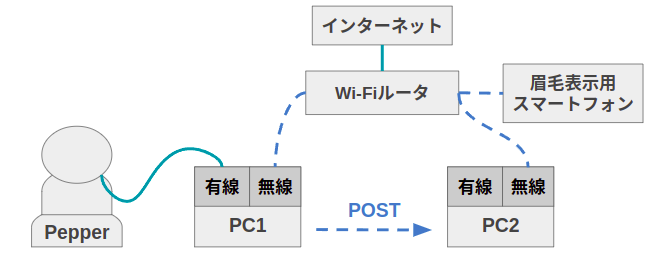
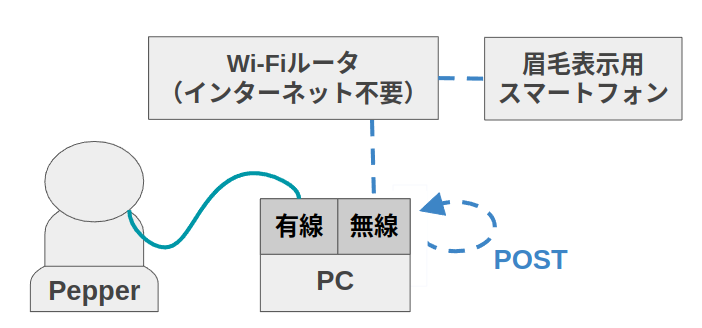
rosbridge_websocketの追加とREADME更新

diff --git a/facial_expression/miraikan_demo/README.md b/facial_expression/miraikan_demo/README.md
@@ -1,19 +1,48 @@
 ## ペッパーとこちさんのトークイベント
 
 ### 本ディレクトリの環境構築
-1. 本ディレクトリをコピーし、以下のようなファイル構成にする
+1. クローンとビルド
     ```
-    -- miraikan_ws
-       `-- src
-           `-- miraikan_demo
-    ```
-
-2. ビルドする
-    ```
-    $ cd miraikan_ws
+    $ mkdir -p miraikan_ws/src
+    $ cd miraikan_ws/src
+    $ git clone git@github.com:MiyabiTane/Deco_with_robot.git
+    $ cd ../
     $ catkin build miraikan_demo
     $ source ~/miraikan_ws/devel/setup.bash
     ```
+
+2. 眉毛デバイスのサーバーを立ち上げる場合には以下も行う<br>
+
+    0. [公式サイト](https://docs.docker.com/engine/install/ubuntu/)を参照してdockerとdocker-composeをインストールしておく。sudoがなくてもdockerが立ち上がるよう、以下のコマンドを実行し、PCを再起動する<br>
+        ```
+        $ sudo groupadd docker
+        $ sudo usermod -aG docker $USER
+        ```
+
+    1. Webサーバの環境構築
+        ```
+        $ source ~/miraikan_ws/devel/setup.bash
+        $ roscd miraikan_demo
+        $ cd ../web_nodejs
+        $ docker-compose run --rm app /bin/bash
+        # npx express-generator
+        # npm install
+        # exit
+        $ docker-compose up
+        ```
+        http://localhost:3000 にアクセスしてHello Worldの画面が出ることを確認する
+
+    2. 眉毛プログラムのDockerへのコピー
+        ```
+        $ sudo cp app/route/* src/routes/  # 本ディレクトリtypoしてるので注意
+        $ sudo cp app/public/javascripts/* src/public/javascripts
+        $ sudo cp app/views/* src/views
+        $ sudo cp app/app.js src/app.js
+        ```
+        ```
+        $ docker-compose up
+        ```
+        http://localhost:3000/rbrow, http://localhost:3000/lbrow にアクセスできればOK。Chromeブラウザ推奨。
 
 ### ペッパーとの接続・動作確認
 0. Pepperのボタン操作<br>
@@ -41,9 +70,54 @@
     >>> talk.episode_11()
     ```
 
+### Scratchの環境構築
+1. npmのインストール（安易にaptでいれるとROSが消えるので注意する！！）
+    ```
+    $ sudo snap install node --channel=14/stable --classic
+    $ npm --version
+    # 6.14.17になることを確認する
+    ```
+
+2. scratch-rosの環境構築
+    ```
+    $ mkdir scratch
+    $ cd scratch
+    $ git clone https://github.com/Affonso-Gui/scratch3-ros-parser
+    $ git clone -b jsk_robots https://github.com/Affonso-Gui/scratch3-ros-vm
+    $ git clone -b jsk_robots https://github.com/Affonso-Gui/scratch3-ros-gui
+    # 以下、時間がかかっても気長に待つこと
+    $ cd scratch/scratch3-ros-vm && npm install
+    $ cd ../scratch-ros-parser && npm install
+    $ cd ../scratch-ros-gui && npm install
+    $ cd ../scratch-ros-vm && sudo npm link
+    $ cd ../scratch-ros-parser && sudo npm link
+    $ cd ../scratch-ros-gui && sudo npm link
+    $ npm link scratch-vm
+    $ npm link scratch-parser
+    $ npm start
+    ```
+    別ターミナルで
+    ```
+    $ roslaunch rosbridge_server rosbridge_websocket.launch
+    ```
+    http://0.0.0.0:8601/ にアクセスして、画面が立ち上がればOK
+
+3. 本デモ用ボックスの追加<br>
+
+    `scratch3-ros-vm/src/extensions/scratch3_pepperrobot/index.js`を[kochigami/add-pepper-extensionのもの](https://github.com/kochigami/scratch3-ros-vm/blob/add-pepper-extension/src/extensions/scratch3_pepperrobot/index.js)に書き換えて以下を実行
+    ```
+    $ cd ~/scratch/scratch-gui
+    $ npm start
+    ```
+    別ターミナルで
+    ```
+    $ roslaunch rosbridge_server rosbridge_websocket.launch
+    ```
+    http://0.0.0.0:8601/ にアクセスして、左下ボタンからメニューページに飛び、Pepperを選択。Mster URLを尋ねられるので`localhost`と打ち込む。
+
 ### 実行方法
 1. 以下の図のようにネットワーク接続を行う。<br>
-    <img width="400" src="./img_README/network_connection.png"><br>
+    <img width="350" src="./img_README/network_connection.png"><br>
 
 2. PCの設定からネットワーク▷有線▷Pepperを選択する。Pepperの電源を入れてIPアドレス`<Pepper_IP>`を聞き取ったら以下を実行する
     ```
@@ -51,40 +125,37 @@
     ```
     詳細は[ペッパーとの接続・動作確認](#ペッパーとの接続・動作確認)参照
 
-3. PC2で眉毛デバイスサーバーを立ち上げる。以降、PC2のIPアドレスを`<PC2_IP>`とする。
-    ```
-    $ cd ../web_nodejs
-    $ docker-compose up
-    ```
-    ※眉毛デバイスサーバーのセットアップは[web_nodejs:初回設定](https://github.com/MiyabiTane/Deco_with_robot/tree/main/facial_expression/web_nodejs#%E5%88%9D%E5%9B%9E%E8%A8%AD%E5%AE%9A)を参照。<br>
-    ※IPアドレスはターミナルに`$ifconfig`と打ち込んだ時の`wlp1s0:`下の`inet`以降の値`xxx.xxx.xxx.xxx`
-
-3. スマートフォンを2台用意し、それぞれで左眉毛(http://<PC2_IP>:3000/lbrow)、右眉毛(http://<PC2_IP>:3000/rbrow)の画面を表示する。<br>
+3. ターミナルに`$ifconfig`と打ち込んだ時の`wlp1s0:`下の`inet`以降の値`<EServer_IP>`を確認する。スマートフォンを2台用意し、それぞれで左眉毛(http://<EServer_IP>:3000/lbrow)、右眉毛(http://<EServer_IP>:3000/rbrow)の画面を表示する。<br>
     ※ブラウザはGoogle Chrome推奨。ページが立ち上がったらアドレスバーを隠すよう、上にスワイプする。
 
-4.  PC2にジョイスティックを接続して以下を実行
+4. scratchの立ち上げ（スクラッチを用いずに[rosservice](#rosservice)をターミナルから直接呼び出すこともできる）
     ```
-    $ export NAO_IP="<Pepper_IP>"
-    $ source ~/miraikan_ws/devel/setup.bash
-    $ roslaunch miraikan_demo lecture-demo.launch eyebrows_server_ip:="<PC2_IP>" pepper_ip:="<Pepper_IP>"
+    $ cd scratch/scratch-gui
+    $ npm start
     ```
-    ジョイスティックのボタンを押してPepperが話して動き、ブラウザ上の眉毛が動けばOK
+    ※[Scratchの環境構築](#Scratchの環境構築)が終わっている必要がある
 
-5. `lecture-demo.launch`の引数詳細<br>
+5. launchファイルの立ち上げ
+    ```
+    $ source ~/miraikan_ws/devel/setup.bash
+    $ roslaunch miraikan_demo lecture-demo.launch pepper_ip:="<Pepper_IP>" run_eyebrows_server:=true memories_talk:=<true or false>
+    ```
+    http://0.0.0.0:8601/ にアクセスして、左下ボタンからメニューページに飛び、Pepperを選択。Mster URLを尋ねられるので`localhost`と打ち込む。デモ用に追加したgreeting以下のボックスを押すと、Pepperと眉毛が動く
+
+6. `lecture-demo.launch`の引数詳細<br>
     `run_eyebrows_server` launchを立ち上げる際に眉毛デバイスサーバーを立ち上げるか否か<br>
-    `eyebrows_server_ip` 眉毛デバイスのサーバーをたてているIPアドレス。run_eyebrows_serverがFalseの場合は指定が必要<br>
+    `eyebrows_server_ip` 眉毛デバイスのサーバーをたてているIPアドレス。。眉毛デバイスのサーバーを別のPCで立てている場合は指定が必要。<br>
     `use_robot` 実機を繋いでいるか否か。繋いでいない場合は実機の動作の代わりにターミナルに経過秒数が表示される。<br>
     `pepper_ip` 実機のIPアドレス。use_robotがTrueの場合は指定が必要<br>
     `memories_talk` Trueの場合は思い出語りver, Falseの場合は発表形式verのデモが起動する。use_robotがFalseの場合には機能しない<br>
-    ※`run_eyebrows_server:=True`を指定する場合は以下のようなファイル構想にしておく必要がある
+
+7. 眉毛の左右ずれの調節<br>
+    用いているスマホによっては左右の眉毛の動きがずれる場合がある。その場合は[lbrow.jade](https://github.com/MiyabiTane/Deco_with_robot/blob/main/facial_expression/web_nodejs/app/views/lbrow.jade#L14), [rbrow.jade](https://github.com/MiyabiTane/Deco_with_robot/blob/main/facial_expression/web_nodejs/app/views/rbrow.jade#L14)の`delay_ms`を調節する。<br>
+    ファイルを変更したら
     ```
-    -- miraikan_ws
-       `-- src
-           |-- miraikan_demo
-           `-- web_nodejs
-               |-- src
-               `--docker-compose.yml
+    web_nodejs$ sudo cp app/views/* src/views
     ```
+    して変更を反映させること。src以下のファイルをsudoで直接いじっても良い。
 
 ### rosservice
 1. /demo_mode
